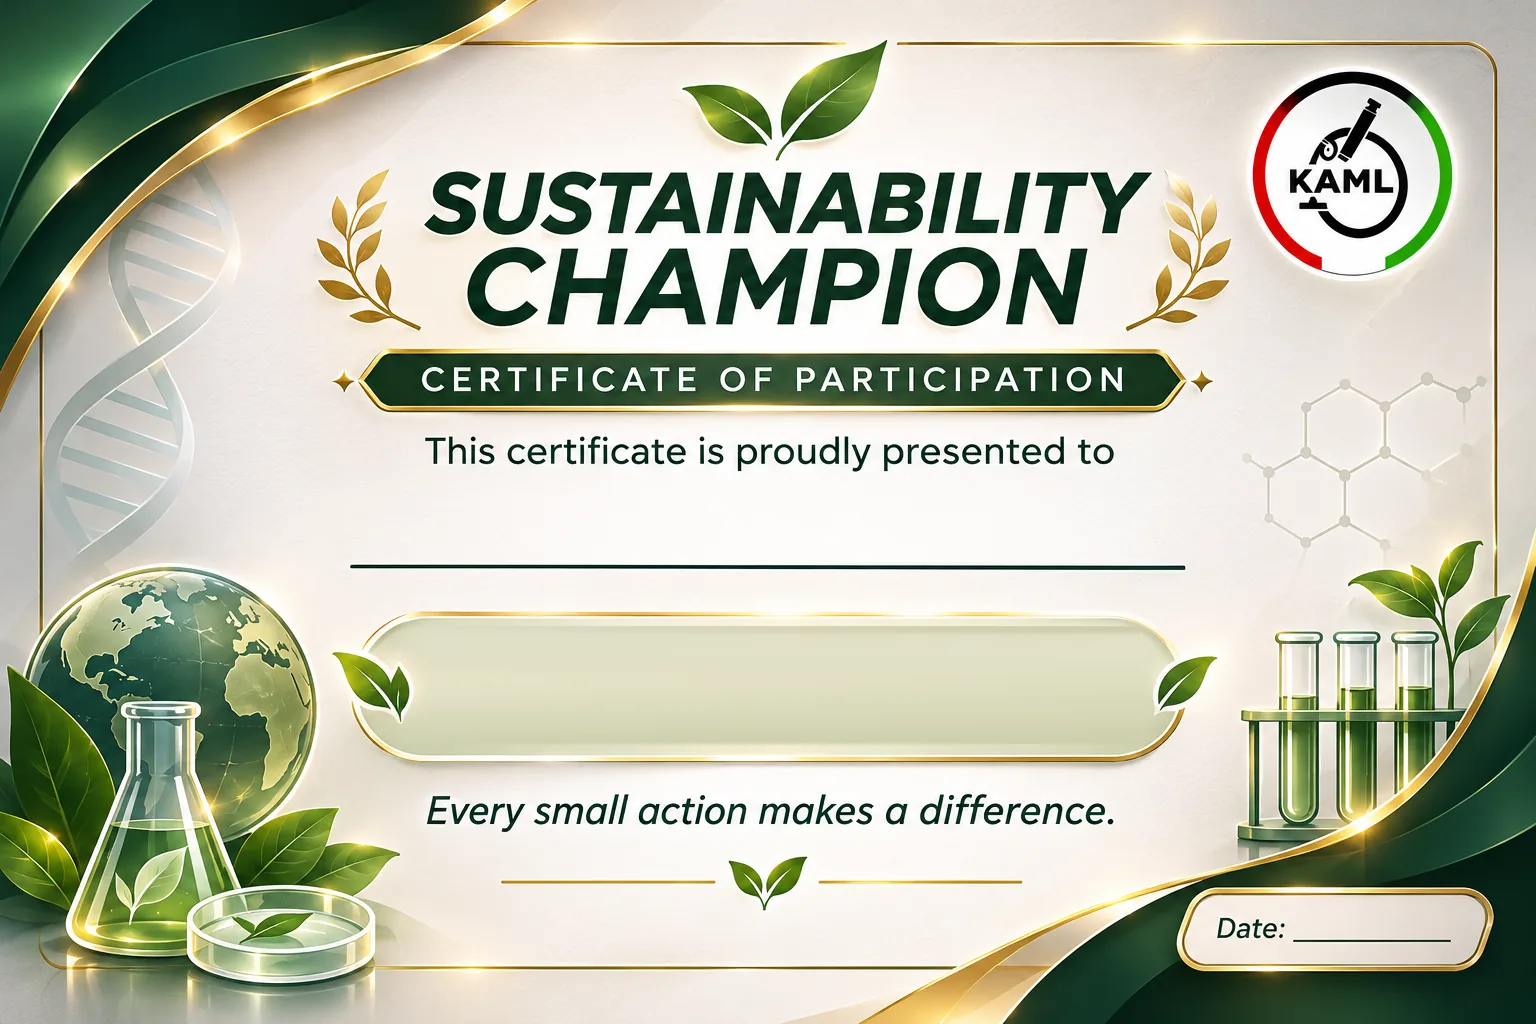
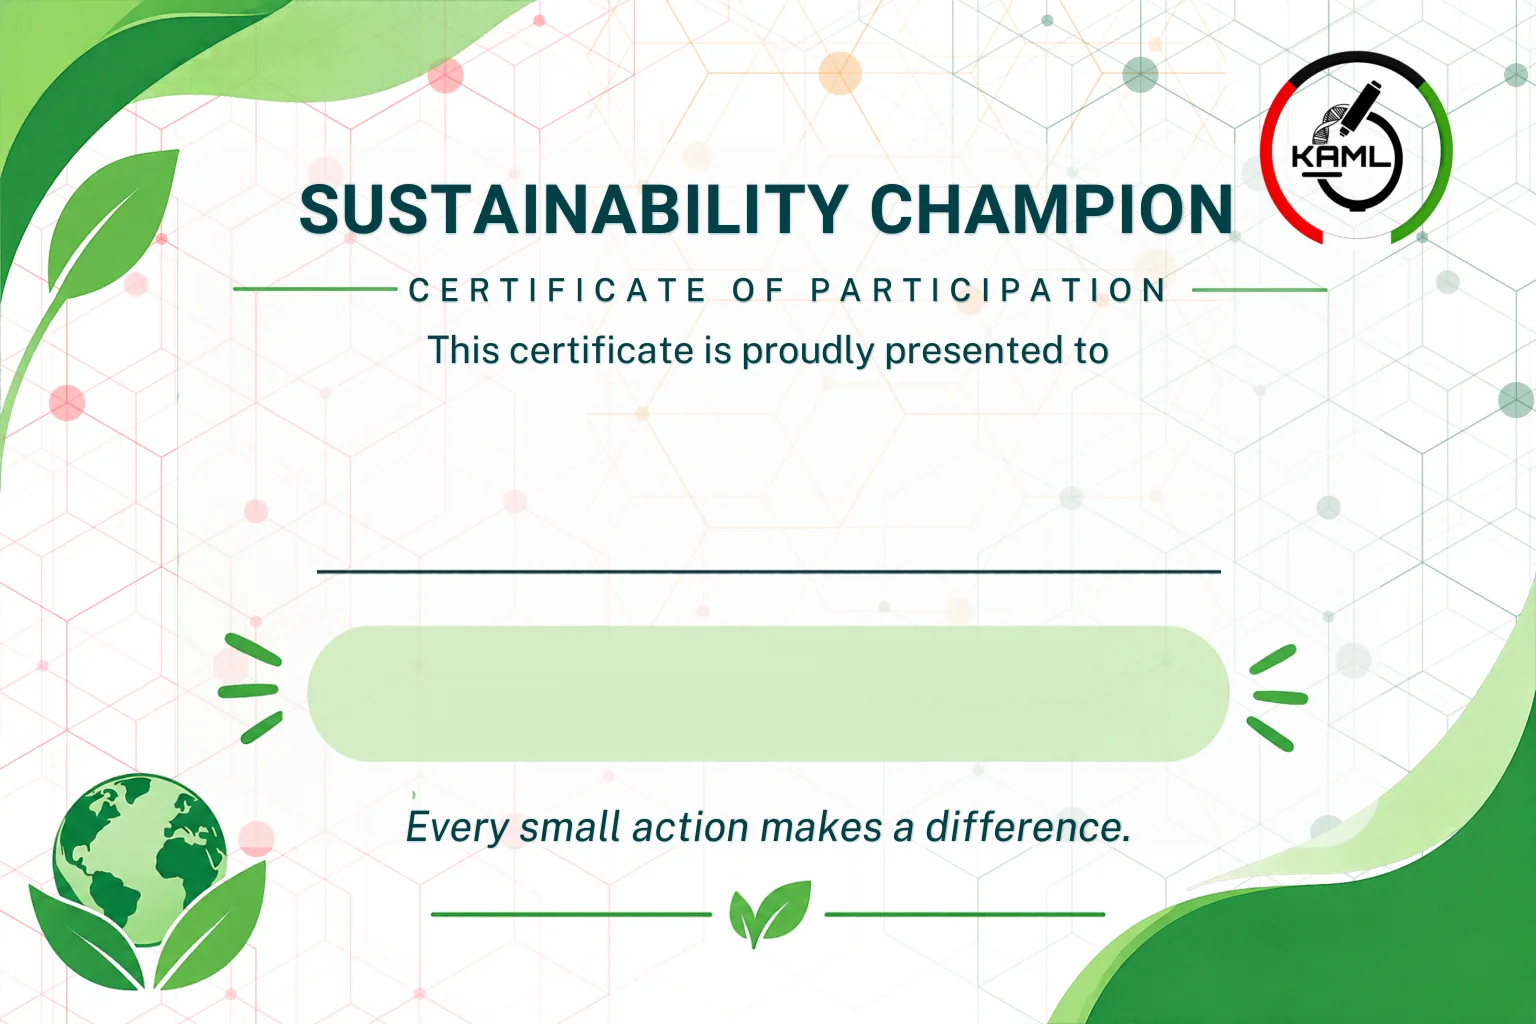
Rename to Test Your Knowledge; new Sustainability Champion certificate from KAML (name on the line, first name in the pledge)

diff --git a/index.html b/index.html
@@ -4,12 +4,12 @@
 <meta charset="utf-8">
 <meta name="viewport" content="width=device-width, initial-scale=1, viewport-fit=cover">
 <meta name="theme-color" content="#fbf8ee">
-<title>Lab Inspector Challenge</title>
-<meta name="description" content="Spot the 10 mistakes. Fix them. Make your lab greener! A 2-minute Green Lab quiz from the Kuwait Association of Medical Laboratories, with a certificate at the end.">
+<title>Test Your Knowledge</title>
+<meta name="description" content="How much do you know about green labs? A 2-minute Green Lab quiz from the Kuwait Association of Medical Laboratories, with a certificate at the end.">
 <meta property="og:type" content="website">
 <meta property="og:url" content="https://q8hitman.github.io/kaml-lab-inspector/">
-<meta property="og:title" content="Lab Inspector Challenge">
-<meta property="og:description" content="Spot the 10 mistakes. Fix them. Make your lab greener! 10 questions, about 2 minutes, certificate at the end.">
+<meta property="og:title" content="Test Your Knowledge">
+<meta property="og:description" content="How much do you know about green labs? 10 questions, about 2 minutes, certificate at the end.">
 <meta property="og:image" content="https://q8hitman.github.io/kaml-lab-inspector/og.jpg">
 <meta property="og:image:width" content="1200">
 <meta property="og:image:height" content="630">
@@ -228,9 +228,9 @@ html[dir="rtl"] #qStamp{right:auto;left:1.4rem;--r:8deg}
 
       <!-- START -->
       <section class="screen on" id="sStart">
-        <div class="doc-head"><b data-t="docHead">Green Lab inspection</b><span id="today"></span></div>
-        <h1 data-t="h1">Lab Inspector <em class="sweep">Challenge</em></h1>
-        <p class="lead" data-t="lead">Spot the 10 mistakes. Fix them. Make your lab greener!</p>
+        <div class="doc-head"><b data-t="docHead">Green Lab quiz</b><span id="today"></span></div>
+        <h1 data-t="h1">Test Your <em class="sweep">Knowledge</em></h1>
+        <p class="lead" data-t="lead">How much do you know about green labs? Answer 10 quick questions and find out.</p>
         <ul class="check">
           <li data-t="c1">10 questions</li>
           <li data-t="c2">About 2 minutes</li>
@@ -254,7 +254,7 @@ html[dir="rtl"] #qStamp{right:auto;left:1.4rem;--r:8deg}
         <div class="res-top">
           <p data-t="yourScore">Your score</p>
           <div class="big"><span id="rScore">0</span><small>/10</small></div>
-          <div class="stamp ok" id="rStamp" aria-hidden="true">Inspected</div>
+          <div class="stamp ok" id="rStamp" aria-hidden="true">Completed</div>
           <h2 id="rTitle">Well done!</h2>
           <p id="rText"></p>
         </div>
@@ -274,7 +274,7 @@ html[dir="rtl"] #qStamp{right:auto;left:1.4rem;--r:8deg}
     </div>
 
     <!-- action buttons sit on the clipboard, under the sheet -->
-    <button class="btn primary pulse" id="startBtn" type="button" data-for="sStart" data-t="start">Start the inspection</button>
+    <button class="btn primary pulse" id="startBtn" type="button" data-for="sStart" data-t="start">Start the quiz</button>
     <button class="btn primary" id="nextBtn" type="button" data-for="sQuiz" hidden>Next question</button>
     <div class="btns" data-for="sResult" hidden>
       <button class="btn primary" id="certBtn" type="button" disabled>Get my certificate</button>
@@ -295,7 +295,7 @@ html[dir="rtl"] #qStamp{right:auto;left:1.4rem;--r:8deg}
 <script>
 (function(){
 const $=s=>document.querySelector(s);
-const CERTBG='certificate-bg.webp';
+const CERTBG='certificate-bg.webp?v=2';
 /* All 12 questions from "Test your knowledge – Green Lab". Each round asks 10 of them. */
 const BANK=[
  {t:'tf',a:false,q:'Sustainability focuses only on the environment.',qa:'الاستدامة تركّز على البيئة فقط.'},
@@ -319,22 +319,22 @@ const BANK=[
 ];
 const N=10;
 const TX={
- en:{docHead:'Green Lab inspection',h1:'Lab Inspector <em class="sweep">Challenge</em>',lead:'Spot the 10 mistakes. Fix them. Make your lab greener!',
-   c1:'10 questions',c2:'About 2 minutes',c3:'Your certificate at the end',start:'Start the inspection',next:'Next question',seeResult:'See my result',
+ en:{docHead:'Green Lab quiz',h1:'Test Your <em class="sweep">Knowledge</em>',lead:'How much do you know about green labs? Answer 10 quick questions and find out.',
+   c1:'10 questions',c2:'About 2 minutes',c3:'Your certificate at the end',start:'Start the quiz',next:'Next question',seeResult:'See my result',
    qOf:n=>`Question <b>${n}</b> of ${N}`,tf:'True or false',mc:'Choose one',T:'True',F:'False',keys:'ABC',answerIs:'The answer is ',
-   correct:'Correct',missed:'Missed',inspected:'Inspected',yourScore:'Your score',nameLabel:'Your name for the certificate',namePh:'e.g. Sara Al-Ali…',
+   correct:'Correct',missed:'Missed',inspected:'Completed',yourScore:'Your score',nameLabel:'Your name for the certificate',namePh:'e.g. Sara Al-Ali…',
    getCert:'Get my certificate',making:'Making your certificate…',again:'Try again',certTitle:'Your certificate',certSub:'Save it to your phone or send it to someone.',
    hint:'If Save does not work, press and hold the certificate to save it.',save:'Save',share:'Share',home:'Back to start',foot:'Green Lab, KAML',
    sndOff:'Turn sound off',sndOn:'Turn sound on',certAlt:'Your certificate',locale:'en-GB',
-   res:[['Lab Inspector Expert!','Outstanding. Your lab is in green hands.'],['Great job!','You know how to make a lab greener.'],['Good effort!','A few more green habits and you are there.'],['Keep learning!','Every green step counts. Try again.']]},
- ar:{docHead:'فحص المختبر الأخضر',h1:'تحدّي <em class="sweep">مفتّش المختبر</em>',lead:'اكتشف الأخطاء العشرة. صحّحها. واجعل مختبرك أكثر استدامة!',
-   c1:'10 أسئلة',c2:'حوالي دقيقتين',c3:'شهادتك في النهاية',start:'ابدأ الفحص',next:'السؤال التالي',seeResult:'اعرض نتيجتي',
+   res:[['Green Lab Expert!','Outstanding. Your lab is in green hands.'],['Great job!','You know how to make a lab greener.'],['Good effort!','A few more green habits and you are there.'],['Keep learning!','Every green step counts. Try again.']]},
+ ar:{docHead:'اختبار المختبر الأخضر',h1:'اختبر <em class="sweep">معلوماتك</em>',lead:'ما مدى معرفتك بالمختبر الأخضر؟ أجب عن 10 أسئلة سريعة واكتشف.',
+   c1:'10 أسئلة',c2:'حوالي دقيقتين',c3:'شهادتك في النهاية',start:'ابدأ الاختبار',next:'السؤال التالي',seeResult:'اعرض نتيجتي',
    qOf:n=>`السؤال <b>${n}</b> من ${N}`,tf:'صح أم خطأ',mc:'اختر إجابة واحدة',T:'صح',F:'خطأ',keys:'أبج',answerIs:'الإجابة الصحيحة: ',
-   correct:'صحيح',missed:'خطأ',inspected:'تم الفحص',yourScore:'نتيجتك',nameLabel:'اسمك كما سيظهر في الشهادة',namePh:'مثال: سارة العلي…',
+   correct:'صحيح',missed:'خطأ',inspected:'مكتمل',yourScore:'نتيجتك',nameLabel:'اسمك كما سيظهر في الشهادة',namePh:'مثال: سارة العلي…',
    getCert:'احصل على شهادتي',making:'جارٍ تجهيز شهادتك…',again:'حاول مرة أخرى',certTitle:'شهادتك',certSub:'احفظها في هاتفك أو أرسلها لمن تريد.',
    hint:'إذا لم يعمل زر الحفظ، اضغط مطوّلًا على الشهادة لحفظها.',save:'حفظ',share:'مشاركة',home:'العودة إلى البداية',foot:'المختبر الأخضر، KAML',
    sndOff:'إيقاف الصوت',sndOn:'تشغيل الصوت',certAlt:'شهادتك',locale:'ar-KW',
-   res:[['خبير في فحص المختبر!','أداء رائع. مختبرك في أيدٍ خضراء.'],['عمل رائع!','تعرف كيف تجعل المختبر أكثر استدامة.'],['محاولة جيدة!','بعض العادات الخضراء الإضافية وتصل.'],['واصل التعلّم!','كل خطوة خضراء لها أثر. حاول مرة أخرى.']]}
+   res:[['خبير المختبر الأخضر!','أداء رائع. مختبرك في أيدٍ خضراء.'],['عمل رائع!','تعرف كيف تجعل المختبر أكثر استدامة.'],['محاولة جيدة!','بعض العادات الخضراء الإضافية وتصل.'],['واصل التعلّم!','كل خطوة خضراء لها أثر. حاول مرة أخرى.']]}
 };
 let LANG='en';
 try{if(localStorage.getItem('kaml-inspector-lang')==='ar')LANG='ar'}catch(e){}
@@ -516,7 +516,7 @@ $('#againBtn').onclick=start;$('#startBtn').onclick=start;$('#homeBtn').onclick=
 $('#saveBtn').onclick=()=>{const a=document.createElement('a');a.href=certURL;a.download='Sustainability-Champion-Certificate.jpg';document.body.appendChild(a);a.click();a.remove()};
 $('#shareBtn').onclick=async()=>{
   try{const blob=await (await fetch(certURL)).blob();const file=new File([blob],'Sustainability-Champion-Certificate.jpg',{type:'image/jpeg'});
-    if(navigator.canShare&&navigator.canShare({files:[file]})){await navigator.share({files:[file],title:'Lab Inspector Challenge'});return}}catch(e){}
+    if(navigator.canShare&&navigator.canShare({files:[file]})){await navigator.share({files:[file],title:'Test Your Knowledge'});return}}catch(e){}
   $('#saveBtn').click();
 };
 if(!navigator.share)$('#shareBtn').hidden=true;
@@ -529,17 +529,18 @@ async function drawCert(name,sc){
   const D='"Bricolage Grotesque", "Alexandria", Arial';
   try{await Promise.all([document.fonts.load('800 40px "Bricolage Grotesque"'),document.fonts.load('600 20px "Bricolage Grotesque"'),LANG==='ar'||/[\u0600-\u06FF]/.test(name)?(loadArabicFont(),document.fonts.load('800 40px Alexandria','سارة')):0])}catch(e){}
   const bg=await (window._bg||loadImg(CERTBG)),W=bg.naturalWidth,H=bg.naturalHeight,c=document.createElement('canvas');c.width=W;c.height=H;const g=c.getContext('2d');
-  g.drawImage(bg,0,0);g.direction='ltr';g.textAlign='center';g.fillStyle='#0e3b23';
+  g.drawImage(bg,0,0);g.direction='ltr';g.textAlign='center';g.fillStyle='#044047';
   const fit=(txt,font,size,max,min)=>{let f=size;g.font=font(f);while(g.measureText(txt).width>max&&f>min){f-=2;g.font=font(f)}return f};
-  // full name on the line
-  fit(name,f=>`800 ${f}px ${D}`,74,790,34);g.fillText(name,W/2,546);
-  // pledge in the pill, with the first name
-  const first=name.split(/\s+/)[0];
-  fit(`I, ${first}, choose to make`,f=>`italic 800 ${f}px ${D}`,50,700,30);g.fillText(`I, ${first}, choose to make`,W/2,670);
-  g.font=`italic 800 50px ${D}`;g.fillText('my lab more sustainable!',W/2,726);
-  // date in the box
-  g.textAlign='left';g.font=`700 25px ${D}`;
-  g.fillText(new Intl.DateTimeFormat('en-GB',{day:'numeric',month:'short',year:'numeric'}).format(new Date()),1300,937);
+  // full name above the line
+  fit(name,f=>`800 ${f}px ${D}`,80,860,34);g.fillText(name,W/2,/[-ۿ]/.test(name)?530:548);
+  // pledge in the green pill: "I, <first name>," in italic, the rest upright (as in the original design)
+  const first=name.split(/\s+/)[0],a=`I, ${first},`,b=' choose to make';g.fillStyle='#08462c';
+  const it=s=>`italic 800 ${s}px ${D}`,up=s=>`800 ${s}px ${D}`;
+  const wOf=s=>{g.font=it(s);const x=g.measureText(a).width;g.font=up(s);return x+g.measureText(b).width};
+  let f=50;while(wOf(f)>800&&f>30)f-=2;
+  g.font=it(f);const wa=g.measureText(a).width,x0=W/2-wOf(f)/2;g.textAlign='left';
+  g.font=it(f);g.fillText(a,x0,681);g.font=up(f);g.fillText(b,x0+wa,681);
+  g.textAlign='center';g.font=up(50);g.fillText('my lab more sustainable!',W/2,735);
   return c.toDataURL('image/jpeg',.92);
 }
 })();

diff --git a/README.md b/README.md
@@ -1,4 +1,4 @@
-# Lab Inspector Challenge
+# Test Your Knowledge
 
 Green lab quiz for KAML (Kuwait Association of Medical Laboratories). 10 questions, certificate at the end, made for phones (open via QR code).
 
